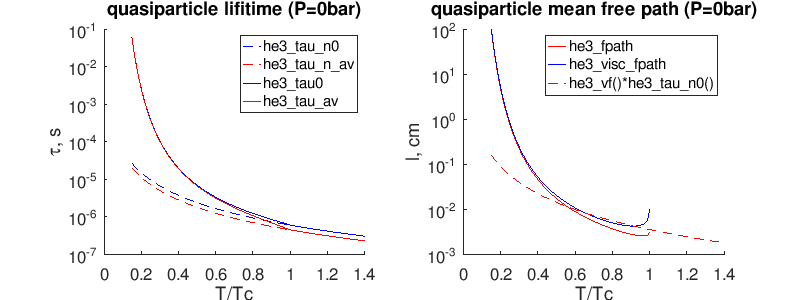
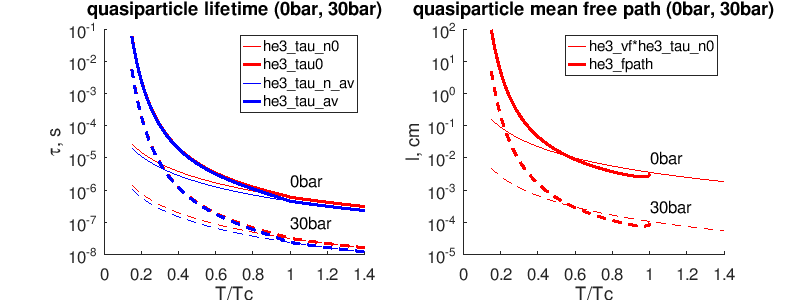
update docs

diff --git a/docs/index.htm b/docs/index.htm
@@ -564,19 +564,23 @@ See also VW2.48
 <br>
 
 <h3>Quasiparticle lifetimes</h3>
-<p><tt>he3_tau_n0(ttc,p)</tt> -- Normal state quasiparticle lifetime at the Fermi level \tau_N(0,T)
+<p><tt>he3_tau_n0(ttc,p)</tt> -- Normal state quasiparticle lifetime at the Fermi level $\tau_N(0,T)$, s
 <br>
 Einzel JLTP32 (1978) p.28,34
 Einzel JLTP84 (1991) f.4
 Also see VW2.38. tau_n0 is different by pi/4 factor?!
 
-<p><tt>he3_tau_n_av(ttc,p)</tt> -- Thermal average of normal state quasiparticle lifetime \bar\tau_N(T)
+<p><tt>he3_tau_n_av(ttc,p)</tt> -- Thermal average of normal state quasiparticle lifetime $3/4\tau_N(0,T)$, s
 <br>
 Einzel JLTP84 (1991) f.5
 
-<p><tt>he3_tau_nd(ttc,p)</tt> -- Spin diffusion transport time for a normal Fermi-liquid, s
+<p><tt>he3_tau_nd(ttc,p)</tt> -- Thermal average of normal state spin diffusion transport time, s
 <br>
 Einzel JLTP84 (1991) p.328
+
+<p><tt>he3_tau_nv(ttc,p)</tt> -- Thermal average ot normal state viscous transport time, s
+<br>
+See Einzel JLTP84 (1990) p.41
 
 <p><tt>he3_diffn_hydr(ttc,p)</tt> -- Hydrodynamic spin diffusion in normal liquid, cm2/s
 <br>
@@ -629,6 +633,7 @@ Einzel JLTP32 (1978) f.84
 <br>
 Einzel JLTP32 (1990) f.28 and below
 
+<p><p> <img src="img/he3b_tau.png"></p>
 <h3>Viscosity</h3>
 <p><tt>he3_visc_fpath(ttc,p)</tt> -- Viscous free path of Bogoliubov quasiparticles [cm]
 <br>
@@ -638,7 +643,6 @@ Einzel 1990 Eq.26
 <br>
 Einzel 1990 Eq.28
 
-<p><p> <img src="img/he3b_tau.png"></p>
 <h3>Spin diffusion</h3>
 <p><tt>he3_tau_dperp(ttc,p)</tt> -- Spin diffusion perpendicular transport time, s
 <br>

diff --git a/docs/img/he3b_tau.m b/docs/img/he3b_tau.m
@@ -6,33 +6,45 @@ pkg load he3lib
 figure;
 hold on;
 
-p=0;
+p1=0;
+p2=30;
 
-ttc=0.15:0.01:1.4;
+ttc=0.15:0.002:1.4;
 
 subplot(1,2,1); hold on;
-semilogy(ttc, he3_tau_n0(ttc,p),   'b--');
-semilogy(ttc, he3_tau_n_av(ttc,p), 'r--');
-semilogy(ttc, he3_tau0(ttc, p),    'b-');
-semilogy(ttc, he3_tau_av(ttc, p),  'r-');
+semilogy(ttc, he3_tau_n0(ttc,p1),   'r-');
+semilogy(ttc, he3_tau0(ttc, p1),    'r-', 'linewidth', 2);
+semilogy(ttc, he3_tau_n_av(ttc,p1), 'b-');
+semilogy(ttc, he3_tau_av(ttc, p1),  'b-', 'linewidth', 2);
+
+semilogy(ttc, he3_tau_n0(ttc,p2),   'r--');
+semilogy(ttc, he3_tau0(ttc, p2),    'r--', 'linewidth', 2);
+semilogy(ttc, he3_tau_n_av(ttc,p2), 'b--');
+semilogy(ttc, he3_tau_av(ttc, p2),  'b--', 'linewidth', 2);
 
 xlabel('T/Tc')
 ylabel('\tau, s')
-legend('he3\_tau\_n0', 'he3\_tau\_n\_av', 'he3\_tau0', 'he3\_tau\_av')
-title('quasiparticle lifitime (P=0bar)')
-
-ttc=0.15:0.01:1.4;
-tn0=he3_tau_n0(ttc, p);
-vf=he3_vf(p);
+legend('he3\_tau\_n0', 'he3\_tau0', 'he3\_tau\_n\_av', 'he3\_tau\_av')
+title('quasiparticle lifetime (0bar, 30bar)')
+text(1,2e-6, '0bar')
+text(1,1e-7, '30bar')
+ttc=0.15:0.002:1.4;
 
 subplot(1,2,2); hold on;
-semilogy(ttc, he3_fpath(ttc,p),      'r-');
-semilogy(ttc, he3_visc_fpath(ttc,p), 'b-');
-semilogy(ttc, vf*tn0,               'r--');
+l1=he3_vf(p1)*he3_tau_n0(ttc, p1);
+l2=he3_vf(p2)*he3_tau_n0(ttc, p2);
+semilogy(ttc, l1, 'r-');
+semilogy(ttc, he3_fpath(ttc,p1),                'r-', 'linewidth', 2);
+semilogy(ttc, l2, 'r--');
+semilogy(ttc, he3_fpath(ttc,p2),            'r--', 'linewidth', 2);
+
+text(1,1e-2, '0bar')
+text(1,3e-4, '30bar')
+
 xlabel('T/Tc')
 ylabel('l, cm')
-legend('he3\_fpath', 'he3\_visc\_fpath', 'he3\_vf()*he3\_tau\_n0()')
-title('quasiparticle mean free path (P=0bar)')
+legend('he3\_vf*he3\_tau\_n0', 'he3\_fpath')
+title('quasiparticle mean free path (0bar, 30bar)')
 
 
 print -dpng he3b_tau.png "-S800,300"
